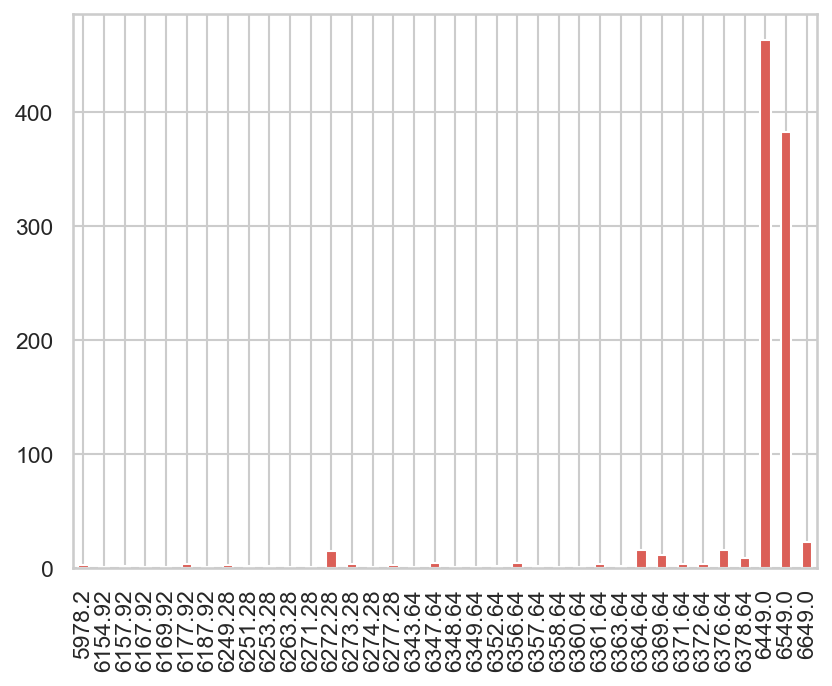
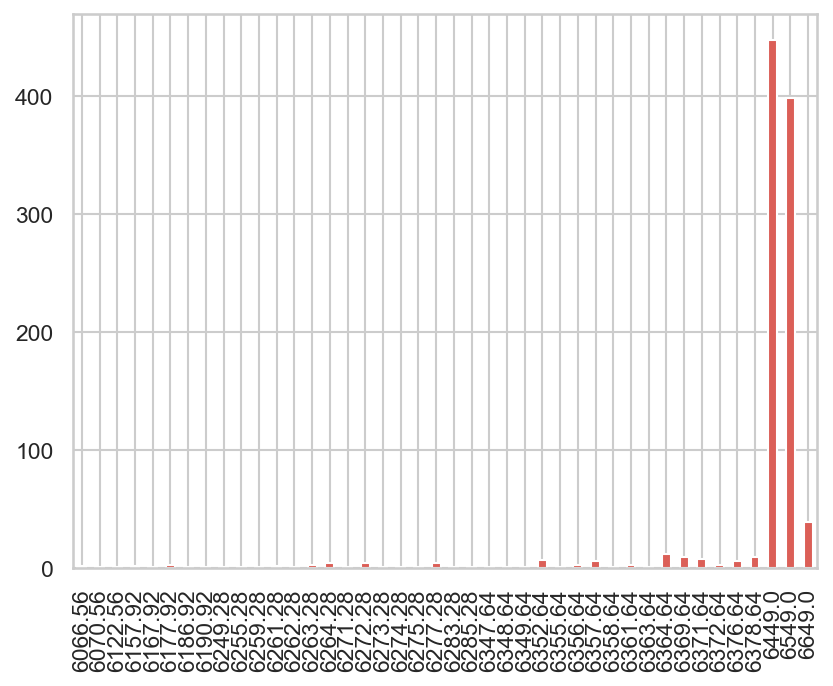
Experiment begonnen

diff --git a/codes/analyze/simulated_annealing_dis.py b/codes/analyze/simulated_annealing_dis.py
@@ -22,11 +22,18 @@ def simulated_annealing_score(iterations, algorithm_iterations, temperature, dat
     graph = Graph(stations_file, connections_file)
     base_network = Network(network_file, graph.stations)
 
+    if datasheet == "holland":
+        max_traject = 7
+        max_length = 120
+    else:
+        max_traject = 20
+        max_length = 180
+
     scores = {}
         
     spinner = Spinner('Running')
     for iteration in range(iterations):
-        network, score = Simulated_Annealing_Rail(base_network, 180, 20, algorithm_iterations, temperature, score_connections).run(False)
+        network, score = Simulated_Annealing_Rail(base_network, max_length, max_traject, algorithm_iterations, temperature, score_connections).run(False)
 
         if score in scores:
             scores[score] += 1
@@ -54,7 +61,14 @@ def simulated_annealing_score_ot(algorithm_iterations, temperature, datasheet):
     graph = Graph(stations_file, connections_file)
     base_network = Network(network_file, graph.stations)
 
-    scores = Simulated_Annealing_Rail(base_network, 180, 20, algorithm_iterations, temperature, score_connections).run(True)
+    if datasheet == "holland":
+        max_traject = 7
+        max_length = 120
+    else:
+        max_traject = 20
+        max_length = 180
+
+    scores = Simulated_Annealing_Rail(base_network, max_length, max_traject, algorithm_iterations, temperature, score_connections).run(True)
 
     data = pd.Series(scores)
 

diff --git a/codes/analyze/traveling_salesman_dis.py b/codes/analyze/traveling_salesman_dis.py
@@ -21,10 +21,17 @@ def traveling_salesman_score(iterations, datasheet):
     graph = Graph(stations_file, connections_file)
     
     scores = {}
+
+    if datasheet == "holland":
+        max_traject = 7
+        max_length = 120
+    else:
+        max_traject = 20
+        max_length = 180
     
     spinner = Spinner(f"Running Traveling Salesman {datasheet}")
     for iteration in range(iterations):
-        trajects, check = Traveling_Salesman_Rail(graph, 20, 180).run()
+        trajects, check = Traveling_Salesman_Rail(graph, max_traject, max_length).run()
 
         score = round(K(score_connections, trajects), 2)
         
